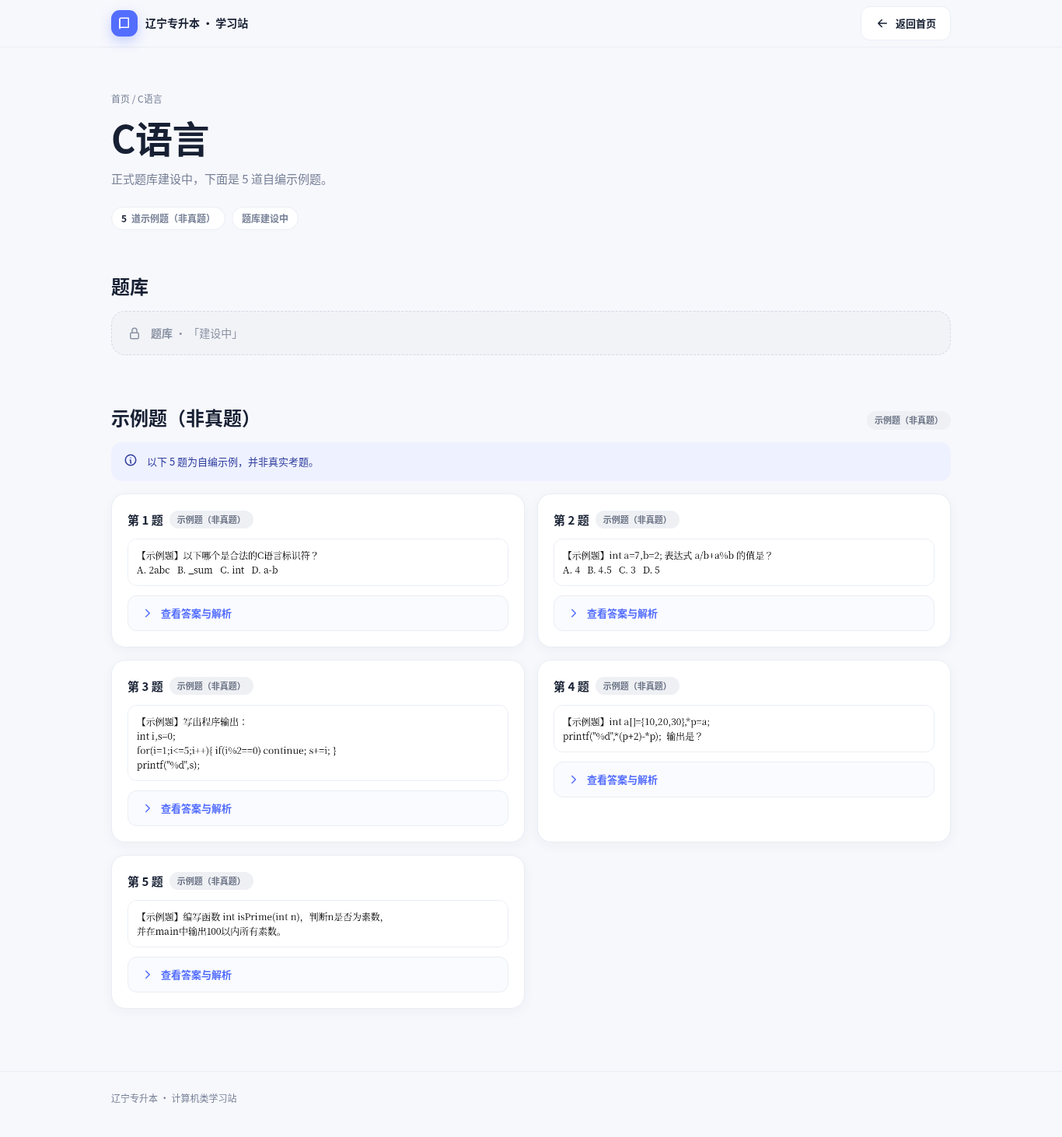
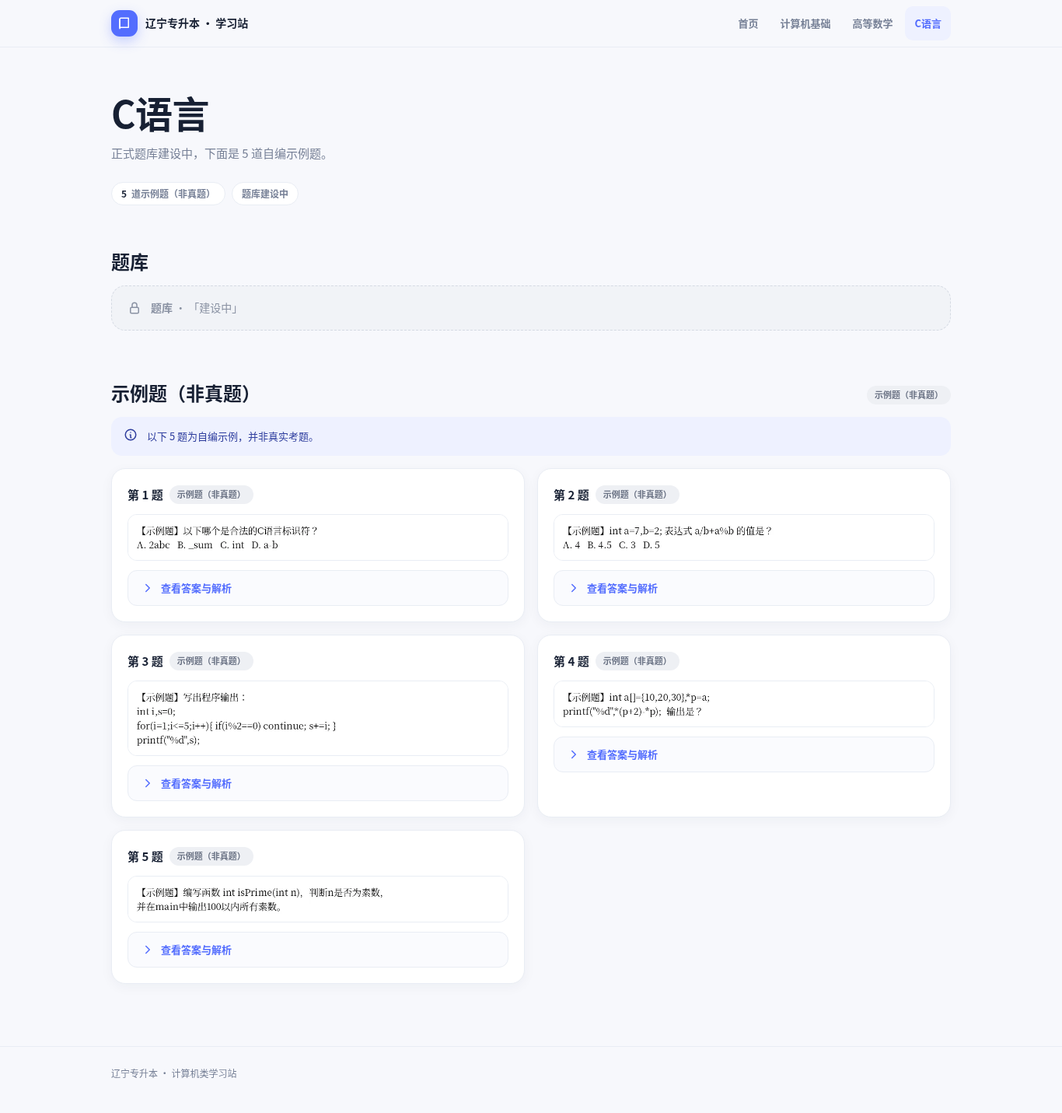
Remove non-study sections, consistent subject nav

diff --git a/index.html b/index.html
@@ -382,12 +382,10 @@
         <span><span class="brand-name">专升本学习站</span><span class="brand-sub">LIAONING · COMPUTER SCIENCE</span></span>
       </a>
       <nav class="nav-links" id="navLinks" aria-label="主导航">
-        <a href="#progress">学习概览</a>
-        <a href="#public-courses">公共课</a>
+                <a href="#public-courses">公共课</a>
         <a href="#major-courses">专业课</a>
-        <a href="#quick-links">快捷入口</a>
-      </nav>
-      <a class="nav-action" href="#public-courses">开始学习 <svg class="icon"><use href="#i-arrow"/></svg></a>
+              </nav>
+      
       <button class="menu-toggle" id="menuToggle" aria-label="打开导航菜单" aria-expanded="false">
         <svg class="icon"><use href="#i-menu"/></svg>
       </button>
@@ -398,18 +396,18 @@
     <section class="hero">
       <div class="shell hero-grid">
         <div>
-          <div class="eyebrow"><span class="eyebrow-dot"></span> 专注 · 系统 · 持续进步</div>
+          
           <h1>辽宁专升本<br><span class="gradient-text">计算机类学习站</span></h1>
-          <p class="hero-copy">把知识拆解成每天都能完成的小目标。稳扎基础、反复练习，让每一次学习都离目标更近一步。</p>
+          <p class="hero-copy">辽宁专升本计算机类复习资料：讲解视频、思维导图、考点汇总和练习题，按科目整理。</p>
           <div class="hero-actions">
-            <a class="btn-primary" href="#public-courses">进入课程 <svg class="icon"><use href="#i-arrow"/></svg></a>
-            <a class="btn-secondary" href="#quick-links">查看练习资源 <svg class="icon"><use href="#i-arrow-up-right"/></svg></a>
+            <a class="btn-primary" href="#public-courses">公共课 <svg class="icon"><use href="#i-arrow"/></svg></a>
+            <a class="btn-secondary" href="#major-courses">专业课</a>
           </div>
         </div>
         <div class="hero-visual" aria-label="学习进度视觉展示">
-          <div class="orb"></div>
+          
           <div class="visual-card">
-            <div class="visual-top"><span class="visual-label">站内资料</span><span class="visual-chip">实时统计</span></div>
+            <div class="visual-top"><span class="visual-label">站内资料</span></div>
             <div class="visual-label">已有内容的科目</div>
             <div class="visual-number">3<small> / 7 科已上线</small></div>
             <div class="visual-track"><span></span></div>
@@ -421,48 +419,17 @@
               <div class="visual-row"><span>C 语言示例题（非真题）</span><strong>5 题</strong></div>
             </div>
           </div>
-          <div class="floating-note">
-            <span class="floating-icon"><svg class="icon"><use href="#i-spark"/></svg></span>
-            <span><strong>今天也向前一步</strong><span>Small steps, real progress.</span></span>
-          </div>
+          
         </div>
       </div>
     </section>
 
-    <section class="section" id="progress">
-      <div class="shell">
-        <div class="section-heading">
-          <div><div class="section-kicker">YOUR DASHBOARD</div><h2>学习进度概览</h2><p class="section-desc">记录阶段成果，按自己的节奏持续推进。</p></div>
-          <div class="section-aside">学习数据 · 随时可调整</div>
-        </div>
-        <div class="progress-panel">
-          <div class="progress-main">
-            <div class="progress-ring" id="progressRing" style="--progress:36%"><span id="progressNumber">36%</span></div>
-            <div class="progress-copy">
-              <h3>当前总学习进度</h3>
-              <p>自定义学习进度，可通过下方滑块调整。<br>数据仅保存在当前浏览器中。</p>
-              <span class="local-tag"><svg class="icon"><use href="#i-local"/></svg> 本地进度 · 不上传服务器</span>
-            </div>
-          </div>
-          <div class="progress-side">
-            <div class="stat"><strong>7</strong><span>Excel 讲解视频（4.1–4.7）</span></div>
-            <div class="stat"><strong>26</strong><span>计算机基础题库样本（待确认）</span></div>
-            <div class="stat"><strong>5</strong><span>C 语言示例题（非真题）</span></div>
-          </div>
-          <div class="progress-edit">
-            <label for="progressSlider">调整本地进度</label>
-            <input id="progressSlider" type="range" min="0" max="100" value="36" aria-label="调整本地学习进度">
-            <output id="progressOutput" for="progressSlider">36%</output>
-            <button class="reset-progress" id="resetProgress" type="button">重置</button>
-          </div>
-        </div>
-      </div>
-    </section>
+    
 
     <section class="section subject-section" id="public-courses">
       <div class="shell">
         <div class="section-heading">
-          <div><div class="section-kicker">GENERAL SUBJECTS</div><h2>公共课</h2><p class="section-desc">打牢公共基础，建立稳定的解题能力。</p></div>
+          <div><h2>公共课</h2><p class="section-desc">英语、高等数学、计算机基础。</p></div>
           <div class="section-aside">3 门科目</div>
         </div>
         <div class="subject-grid">
@@ -493,7 +460,7 @@
     <section class="section subject-section" id="major-courses">
       <div class="shell">
         <div class="section-heading">
-          <div><div class="section-kicker">MAJOR SUBJECTS</div><h2>专业课</h2><p class="section-desc">聚焦计算机类核心知识，逐科突破重点与难点。</p></div>
+          <div><h2>专业课</h2><p class="section-desc">C 语言、数据库、网页设计、计算机网络。</p></div>
           <div class="section-aside">4 门科目</div>
         </div>
         <div class="subject-grid">
@@ -526,66 +493,19 @@
       </div>
     </section>
 
-    <section class="section quick-section" id="quick-links">
-      <div class="shell">
-        <div class="section-heading">
-          <div><div class="section-kicker">QUICK ACCESS</div><h2>快捷学习入口</h2><p class="section-desc">无需进入课程目录，直接打开常用学习工具。</p></div>
-          <div class="section-aside">外部学习资源</div>
-        </div>
-        <div class="quick-grid">
-          <a class="quick-card" href="https://bernardshilohjazlene4049-crypto.github.io/zsb-excel-videos/" target="_blank" rel="noopener noreferrer">
-            <span class="quick-icon video"><svg class="icon"><use href="#i-video"/></svg></span>
-            <span class="quick-copy"><span class="mini-label">VIDEO LESSONS</span><h3>Excel 操作视频站</h3><p>按知识点观看 Office 2016 操作讲解，跟随步骤熟悉功能区与命令。</p></span>
-            <span class="quick-arrow"><svg class="icon"><use href="#i-arrow-up-right"/></svg></span>
-          </a>
-          <a class="quick-card" href="https://bernardshilohjazlene4049-crypto.github.io/excel-ops-exam/" target="_blank" rel="noopener noreferrer">
-            <span class="quick-icon practice"><svg class="icon"><use href="#i-practice"/></svg></span>
-            <span class="quick-copy"><span class="mini-label">INTERACTIVE PRACTICE</span><h3>操作题互动练习</h3><p>通过交互式题目检验操作步骤，练习 Excel 高频考点与实战能力。</p></span>
-            <span class="quick-arrow"><svg class="icon"><use href="#i-arrow-up-right"/></svg></span>
-          </a>
-        </div>
-      </div>
-    </section>
+    
   </main>
 
   <footer class="footer">
     <div class="shell footer-inner">
       <div class="footer-brand">辽宁专升本 · 计算机类学习站</div>
-      <div class="footer-note">专注基础 · 重视练习 · 稳步提升<br>本页面为个人学习入口，学习进度保存在当前浏览器。</div>
+      <div class="footer-note">建设中的科目会陆续补充。</div>
     </div>
   </footer>
 
   <script>
     (function () {
-      const slider = document.getElementById('progressSlider');
-      const number = document.getElementById('progressNumber');
-      const output = document.getElementById('progressOutput');
-      const ring = document.getElementById('progressRing');
-      const reset = document.getElementById('resetProgress');
-      const storageKey = 'ln-computer-zsb-local-progress';
-
-      function setProgress(value, save) {
-        const safeValue = Math.max(0, Math.min(100, Number(value) || 0));
-        slider.value = safeValue;
-        number.textContent = safeValue + '%';
-        output.textContent = safeValue + '%';
-        ring.style.setProperty('--progress', safeValue + '%');
-        if (save) {
-          try { localStorage.setItem(storageKey, String(safeValue)); } catch (e) {}
-        }
-      }
-
-      try {
-        const saved = localStorage.getItem(storageKey);
-        if (saved !== null) setProgress(saved, false);
-      } catch (e) {}
-
-      slider.addEventListener('input', function () { setProgress(slider.value, true); });
-      reset.addEventListener('click', function () {
-        setProgress(36, true);
-      });
-
-      const toggle = document.getElementById('menuToggle');
+            const toggle = document.getElementById('menuToggle');
       const links = document.getElementById('navLinks');
       toggle.addEventListener('click', function () {
         const isOpen = links.classList.toggle('open');

diff --git a/jsj/index.html b/jsj/index.html
@@ -11,8 +11,8 @@
 <symbol id="i-info" viewBox="0 0 24 24"><circle cx="12" cy="12" r="9"/><path d="M12 8h.01M11 12h1v5h1"/></symbol>
 <symbol id="i-chev" viewBox="0 0 24 24"><path d="m9 6 6 6-6 6"/></symbol>
 </defs></svg>
-<header class="topbar"><div class="shell"><a class="brand" href="../index.html"><span class="mark"><svg class="icon" aria-hidden="true"><use href="#i-book"/></svg></span>辽宁专升本 · 学习站</a><a class="btn btn-secondary" href="../index.html"><svg class="icon" aria-hidden="true"><use href="#i-back"/></svg>返回首页</a></div></header>
-<main><div class="shell"><section class="hero"><div class="crumb"><a href="../index.html">首页</a> / 计算机基础</div><h1>计算机基础</h1><p class="lead">第四章 Excel 的视频、导图、考点和题库样本。</p><div class="chips"><span class="chip"><strong>7</strong> 个讲解视频</span><span class="chip">思维导图</span><span class="chip">操作题考点汇总</span><span class="chip"><strong>26</strong> 题样本 · 待确认</span></div></section><section class="block"><div class="sec-head"><div><h2>在线资源</h2></div></div><div class="grid g2"><a class="card link-card" href="https://bernardshilohjazlene4049-crypto.github.io/zsb-excel-videos/" target="_blank" rel="noopener noreferrer"><span class="ic ic-brand"><svg class="icon" aria-hidden="true"><use href="#i-video"/></svg></span><span><h3>Excel 讲解视频（在线版）</h3><p>zsb-excel-videos</p></span><span class="go"><svg class="icon" aria-hidden="true"><use href="#i-ext"/></svg></span></a>
+<header class="topbar"><div class="shell"><a class="brand" href="../index.html"><span class="mark"><svg class="icon" aria-hidden="true"><use href="#i-book"/></svg></span>辽宁专升本 · 学习站</a><nav class="subnav" aria-label="科目"><a href="../index.html">首页</a><a href="../jsj/index.html" aria-current="page">计算机基础</a><a href="../gs/index.html">高等数学</a><a href="../c/index.html">C语言</a></nav></div></header>
+<main><div class="shell"><section class="hero"><h1>计算机基础</h1><p class="lead">第四章 Excel 的视频、导图、考点和题库样本。</p><div class="chips"><span class="chip"><strong>7</strong> 个讲解视频</span><span class="chip">思维导图</span><span class="chip">操作题考点汇总</span><span class="chip"><strong>26</strong> 题样本 · 待确认</span></div></section><section class="block"><div class="sec-head"><div><h2>在线资源</h2></div></div><div class="grid g2"><a class="card link-card" href="https://bernardshilohjazlene4049-crypto.github.io/zsb-excel-videos/" target="_blank" rel="noopener noreferrer"><span class="ic ic-brand"><svg class="icon" aria-hidden="true"><use href="#i-video"/></svg></span><span><h3>Excel 讲解视频（在线版）</h3><p>zsb-excel-videos</p></span><span class="go"><svg class="icon" aria-hidden="true"><use href="#i-ext"/></svg></span></a>
 <a class="card link-card" href="https://bernardshilohjazlene4049-crypto.github.io/excel-ops-exam/" target="_blank" rel="noopener noreferrer"><span class="ic ic-ok"><svg class="icon" aria-hidden="true"><use href="#i-check"/></svg></span><span><h3>Excel 操作题模拟考试</h3><p>excel-ops-exam</p></span><span class="go"><svg class="icon" aria-hidden="true"><use href="#i-ext"/></svg></span></a></div></section><section class="block"><div class="sec-head"><div><h2>第四章 Excel 讲解视频 4.1–4.7</h2><p class=sec-desc>共 7 个视频，点击封面播放</p></div></div><div class="grid g3"><article class="card vcard"><div class="vthumb"><video controls playsinline preload="none" poster="posters/4.1.jpg" src="videos/4.1.mp4" aria-label="4.1 基础知识 讲解视频"></video><span class="dur">5:31</span></div><div class="vbody"><span class="vnum">4.1</span><div><h3>基础知识</h3><p>第四章 Excel · 讲解视频</p></div><span class="tag tag-ok">可观看</span></div></article><article class="card vcard"><div class="vthumb"><video controls playsinline preload="none" poster="posters/4.2.jpg" src="videos/4.2.mp4" aria-label="4.2 基本操作 讲解视频"></video><span class="dur">6:14</span></div><div class="vbody"><span class="vnum">4.2</span><div><h3>基本操作</h3><p>第四章 Excel · 讲解视频</p></div><span class="tag tag-ok">可观看</span></div></article><article class="card vcard"><div class="vthumb"><video controls playsinline preload="none" poster="posters/4.3.jpg" src="videos/4.3.mp4" aria-label="4.3 数据美化 讲解视频"></video><span class="dur">6:22</span></div><div class="vbody"><span class="vnum">4.3</span><div><h3>数据美化</h3><p>第四章 Excel · 讲解视频</p></div><span class="tag tag-ok">可观看</span></div></article><article class="card vcard"><div class="vthumb"><video controls playsinline preload="none" poster="posters/4.4.jpg" src="videos/4.4.mp4" aria-label="4.4 数据计算 讲解视频"></video><span class="dur">9:28</span></div><div class="vbody"><span class="vnum">4.4</span><div><h3>数据计算</h3><p>第四章 Excel · 讲解视频</p></div><span class="tag tag-ok">可观看</span></div></article><article class="card vcard"><div class="vthumb"><video controls playsinline preload="none" poster="posters/4.5.jpg" src="videos/4.5.mp4" aria-label="4.5 数据管理 讲解视频"></video><span class="dur">10:34</span></div><div class="vbody"><span class="vnum">4.5</span><div><h3>数据管理</h3><p>第四章 Excel · 讲解视频</p></div><span class="tag tag-ok">可观看</span></div></article><article class="card vcard"><div class="vthumb"><video controls playsinline preload="none" poster="posters/4.6.jpg" src="videos/4.6.mp4" aria-label="4.6 图表 讲解视频"></video><span class="dur">5:28</span></div><div class="vbody"><span class="vnum">4.6</span><div><h3>图表</h3><p>第四章 Excel · 讲解视频</p></div><span class="tag tag-ok">可观看</span></div></article><article class="card vcard"><div class="vthumb"><video controls playsinline preload="none" poster="posters/4.7.jpg" src="videos/4.7.mp4" aria-label="4.7 页面设置与打印 讲解视频"></video><span class="dur">4:59</span></div><div class="vbody"><span class="vnum">4.7</span><div><h3>页面设置与打印</h3><p>第四章 Excel · 讲解视频</p></div><span class="tag tag-ok">可观看</span></div></article></div></section><section class="block"><div class="sec-head"><div><h2>思维导图</h2></div></div><div class="grid g2" style="align-items:start"><div class="card figure"><img src="mindmap.png" alt="第四章 Excel 思维导图"></div><a class="card link-card" href="mm.html"><span class="ic ic-brand"><svg class="icon" aria-hidden="true"><use href="#i-map"/></svg></span><span><h3>交互版思维导图</h3><p>在新页面中查看完整导图</p></span><span class="go"><svg class="icon" aria-hidden="true"><use href="#i-arrow"/></svg></span></a></div></section><section class="block"><div class="sec-head"><div><h2>操作题考点汇总</h2></div></div><div class="panel md"><h1 id="excel">第四章 Excel 操作题：选项卡 / 组 / 命令汇总</h1>
 <p>来源：文盛教育「第四章 操作题总结」7 页模板（OCR 识别后已对照原图）。<code>**</code> 表示由题目给出的内容。
 「题型」是模板里的通用答题格式；「例」是模板原有的具体例题，模板里只有 5 道（第 5、13、14、23a、23b 号）（不另编题）。</p>

diff --git a/gs/index.html b/gs/index.html
@@ -11,14 +11,12 @@
 <symbol id="i-info" viewBox="0 0 24 24"><circle cx="12" cy="12" r="9"/><path d="M12 8h.01M11 12h1v5h1"/></symbol>
 <symbol id="i-chev" viewBox="0 0 24 24"><path d="m9 6 6 6-6 6"/></symbol>
 </defs></svg>
-<header class="topbar"><div class="shell"><a class="brand" href="../index.html"><span class="mark"><svg class="icon" aria-hidden="true"><use href="#i-book"/></svg></span>辽宁专升本 · 学习站</a><a class="btn btn-secondary" href="../index.html"><svg class="icon" aria-hidden="true"><use href="#i-back"/></svg>返回首页</a></div></header>
-<main><div class="shell"><section class="hero"><div class="crumb"><a href="../index.html">首页</a> / 高等数学</div><h1>高等数学</h1><p class="lead">第一章 函数、极限、连续 · 知识点与思维导图。</p><div class="chips"><span class="chip">第一章</span><span class="chip">函数 · 极限 · 连续</span><span class="chip"><a href="mindmap.html">交互式思维导图</a></span></div></section><section class="block"><div class="article-wrap"><nav class="toc" aria-label="目录"><details class="tocd panel" open><summary>目录</summary><strong>目录</strong><ol><li class="l2"><a href="#_2">函数思维导图（老师课堂版）</a></li><li class="l2"><a href="#_3">极限思维导图（老师课堂版）</a></li><li class="l2"><a href="#_4">第一节 函数</a></li><li class="l3"><a href="#_5">考点一：定义域 ★★★</a></li><li class="l3"><a href="#_6">考点二：函数性质</a></li><li class="l2"><a href="#_7">第二节 极限</a></li><li class="l3"><a href="#_8">考点三：数列极限</a></li><li class="l3"><a href="#_9">考点四：函数极限</a></li><li class="l3"><a href="#_10">考点五：无穷小与无穷大</a></li><li class="l3"><a href="#lim-fg">考点六：无穷小的比较（看 lim f/g）</a></li><li class="l3"><a href="#_11">考点七：两个重要极限</a></li><li class="l3"><a href="#_12">考点八：渐近线</a></li><li class="l2"><a href="#_13">第三节 连续</a></li><li class="l3"><a href="#_14">考点九：连续定义</a></li><li class="l3"><a href="#_15">考点十：间断点类型</a></li><li class="l3"><a href="#_16">考点十一：闭区间上连续函数性质</a></li></ol></details></nav><article class="panel md"><h1 id="_1">第一章 函数、极限、连续</h1>
+<header class="topbar"><div class="shell"><a class="brand" href="../index.html"><span class="mark"><svg class="icon" aria-hidden="true"><use href="#i-book"/></svg></span>辽宁专升本 · 学习站</a><nav class="subnav" aria-label="科目"><a href="../index.html">首页</a><a href="../jsj/index.html">计算机基础</a><a href="../gs/index.html" aria-current="page">高等数学</a><a href="../c/index.html">C语言</a></nav></div></header>
+<main><div class="shell"><section class="hero"><h1>高等数学</h1><p class="lead">第一章 函数、极限、连续 · 知识点与思维导图。</p><div class="chips"><span class="chip">第一章 函数 · 极限 · 连续</span><span class="chip">交互式思维导图</span></div></section><section class="block"><div class="article-wrap"><nav class="toc" aria-label="目录"><details class="tocd panel" open><summary>目录</summary><strong>目录</strong><ol><li class="l2"><a href="#_2">思维导图（函数 / 极限）</a></li><li class="l2"><a href="#_4">第一节 函数</a></li><li class="l3"><a href="#_5">考点一：定义域 ★★★</a></li><li class="l3"><a href="#_6">考点二：函数性质</a></li><li class="l2"><a href="#_7">第二节 极限</a></li><li class="l3"><a href="#_8">考点三：数列极限</a></li><li class="l3"><a href="#_9">考点四：函数极限</a></li><li class="l3"><a href="#_10">考点五：无穷小与无穷大</a></li><li class="l3"><a href="#lim-fg">考点六：无穷小的比较（看 lim f/g）</a></li><li class="l3"><a href="#_11">考点七：两个重要极限</a></li><li class="l3"><a href="#_12">考点八：渐近线</a></li><li class="l2"><a href="#_13">第三节 连续</a></li><li class="l3"><a href="#_14">考点九：连续定义</a></li><li class="l3"><a href="#_15">考点十：间断点类型</a></li><li class="l3"><a href="#_16">考点十一：闭区间上连续函数性质</a></li></ol></details></nav><article class="panel md"><h1 id="_1">第一章 函数、极限、连续</h1>
 <p>考频标记（来自老师导图）：★★★ 每年考，★★ 偶尔不考，★ 偶尔考</p>
-<h2 id="_2">函数思维导图（老师课堂版）</h2>
+<h2 id="_2">思维导图（函数 / 极限，老师课堂版）</h2>
 <a class="card link-card" href="mindmap.html" style="margin:16px 0"><span class="ic ic-brand"><svg class="icon" aria-hidden="true"><use href="#i-map"/></svg></span><span><h3>打开交互式思维导图</h3><p>函数 / 极限 两张导图 · 可展开收起、缩放拖动</p></span><span class="go"><svg class="icon" aria-hidden="true"><use href="#i-arrow"/></svg></span></a>
 <p>两个函数相同，当且仅当定义域相同且对应法则相同。</p>
-<h2 id="_3">极限思维导图（老师课堂版）</h2>
-<a class="card link-card" href="mindmap.html" style="margin:16px 0"><span class="ic ic-brand"><svg class="icon" aria-hidden="true"><use href="#i-map"/></svg></span><span><h3>打开交互式思维导图</h3><p>函数 / 极限 两张导图 · 可展开收起、缩放拖动</p></span><span class="go"><svg class="icon" aria-hidden="true"><use href="#i-arrow"/></svg></span></a>
 <p>求极限先判断类型：不是未定式就直接代入；是未定式再按上面的方法处理。</p>
 <h2 id="_4">第一节 函数</h2>
 <h3 id="_5">考点一：定义域 ★★★</h3>

diff --git a/c/index.html b/c/index.html
@@ -11,8 +11,8 @@
 <symbol id="i-info" viewBox="0 0 24 24"><circle cx="12" cy="12" r="9"/><path d="M12 8h.01M11 12h1v5h1"/></symbol>
 <symbol id="i-chev" viewBox="0 0 24 24"><path d="m9 6 6 6-6 6"/></symbol>
 </defs></svg>
-<header class="topbar"><div class="shell"><a class="brand" href="../index.html"><span class="mark"><svg class="icon" aria-hidden="true"><use href="#i-book"/></svg></span>辽宁专升本 · 学习站</a><a class="btn btn-secondary" href="../index.html"><svg class="icon" aria-hidden="true"><use href="#i-back"/></svg>返回首页</a></div></header>
-<main><div class="shell"><section class="hero"><div class="crumb"><a href="../index.html">首页</a> / C语言</div><h1>C语言</h1><p class="lead">正式题库建设中，下面是 5 道自编示例题。</p><div class="chips"><span class="chip"><strong>5</strong> 道示例题（非真题）</span><span class="chip">题库建设中</span></div></section><section class="block"><div class="sec-head"><div><h2>题库</h2></div></div><div class="wip" aria-disabled="true"><svg class="icon" aria-hidden="true"><use href="#i-lock"/></svg><span><strong>题库</strong> · 「建设中」</span></div></section><section class="block"><div class="sec-head"><div><h2>示例题（非真题）</h2></div><span class="tag tag-grey">示例题（非真题）</span></div><div class="callout info"><svg class="icon" aria-hidden="true"><use href="#i-info"/></svg><span>以下 5 题为自编示例，并非真实考题。</span></div><div class="grid g2"><article class="card qcard"><div class="qhead"><span class="qno">第 1 题</span><span class="tag tag-grey">示例题（非真题）</span></div><div class="stem"><img src="q/LNZSB_demo_q01.webp" alt="示例题第 1 题题干" loading="lazy"></div>
+<header class="topbar"><div class="shell"><a class="brand" href="../index.html"><span class="mark"><svg class="icon" aria-hidden="true"><use href="#i-book"/></svg></span>辽宁专升本 · 学习站</a><nav class="subnav" aria-label="科目"><a href="../index.html">首页</a><a href="../jsj/index.html">计算机基础</a><a href="../gs/index.html">高等数学</a><a href="../c/index.html" aria-current="page">C语言</a></nav></div></header>
+<main><div class="shell"><section class="hero"><h1>C语言</h1><p class="lead">正式题库建设中，下面是 5 道自编示例题。</p><div class="chips"><span class="chip"><strong>5</strong> 道示例题（非真题）</span><span class="chip">题库建设中</span></div></section><section class="block"><div class="sec-head"><div><h2>题库</h2></div></div><div class="wip" aria-disabled="true"><svg class="icon" aria-hidden="true"><use href="#i-lock"/></svg><span><strong>题库</strong> · 「建设中」</span></div></section><section class="block"><div class="sec-head"><div><h2>示例题（非真题）</h2></div><span class="tag tag-grey">示例题（非真题）</span></div><div class="callout info"><svg class="icon" aria-hidden="true"><use href="#i-info"/></svg><span>以下 5 题为自编示例，并非真实考题。</span></div><div class="grid g2"><article class="card qcard"><div class="qhead"><span class="qno">第 1 题</span><span class="tag tag-grey">示例题（非真题）</span></div><div class="stem"><img src="q/LNZSB_demo_q01.webp" alt="示例题第 1 题题干" loading="lazy"></div>
 <details class="ans"><summary><svg class="icon" aria-hidden="true"><use href="#i-chev"/></svg>查看答案与解析</summary><div class="abody"><div class="stem"><img src="a/LNZSB_demo_q01.webp" alt="示例题第 1 题答案" loading="lazy"></div></div></details></article><article class="card qcard"><div class="qhead"><span class="qno">第 2 题</span><span class="tag tag-grey">示例题（非真题）</span></div><div class="stem"><img src="q/LNZSB_demo_q02.webp" alt="示例题第 2 题题干" loading="lazy"></div>
 <details class="ans"><summary><svg class="icon" aria-hidden="true"><use href="#i-chev"/></svg>查看答案与解析</summary><div class="abody"><div class="stem"><img src="a/LNZSB_demo_q02.webp" alt="示例题第 2 题答案" loading="lazy"></div></div></details></article><article class="card qcard"><div class="qhead"><span class="qno">第 3 题</span><span class="tag tag-grey">示例题（非真题）</span></div><div class="stem"><img src="q/LNZSB_demo_q03.webp" alt="示例题第 3 题题干" loading="lazy"></div>
 <details class="ans"><summary><svg class="icon" aria-hidden="true"><use href="#i-chev"/></svg>查看答案与解析</summary><div class="abody"><div class="stem"><img src="a/LNZSB_demo_q03.webp" alt="示例题第 3 题答案" loading="lazy"></div></div></details></article><article class="card qcard"><div class="qhead"><span class="qno">第 4 题</span><span class="tag tag-grey">示例题（非真题）</span></div><div class="stem"><img src="q/LNZSB_demo_q04.webp" alt="示例题第 4 题题干" loading="lazy"></div>

diff --git a/style.css b/style.css
@@ -86,3 +86,8 @@ details.ans .abody{padding:0 16px 16px}
 pre.mermaid{background:#fff;border:1px solid var(--line);border-radius:18px;padding:16px;overflow-x:auto;text-align:center}
 .figure{padding:12px}.figure img{display:block;width:100%;height:auto;border-radius:12px}
 footer.foot{margin-top:48px;border-top:1px solid var(--line);padding:24px 0 40px;color:var(--muted);font-size:12px}
+.subnav{display:flex;gap:4px}
+.subnav a{display:inline-flex;align-items:center;min-height:44px;padding:0 12px;border-radius:10px;color:var(--muted);font-weight:650;font-size:13px}
+.subnav a:hover{color:var(--ink);background:#fff;text-decoration:none}
+.subnav a[aria-current=page]{color:var(--brand);background:var(--brand-soft)}
+@media(max-width:760px){.subnav{display:none}}
